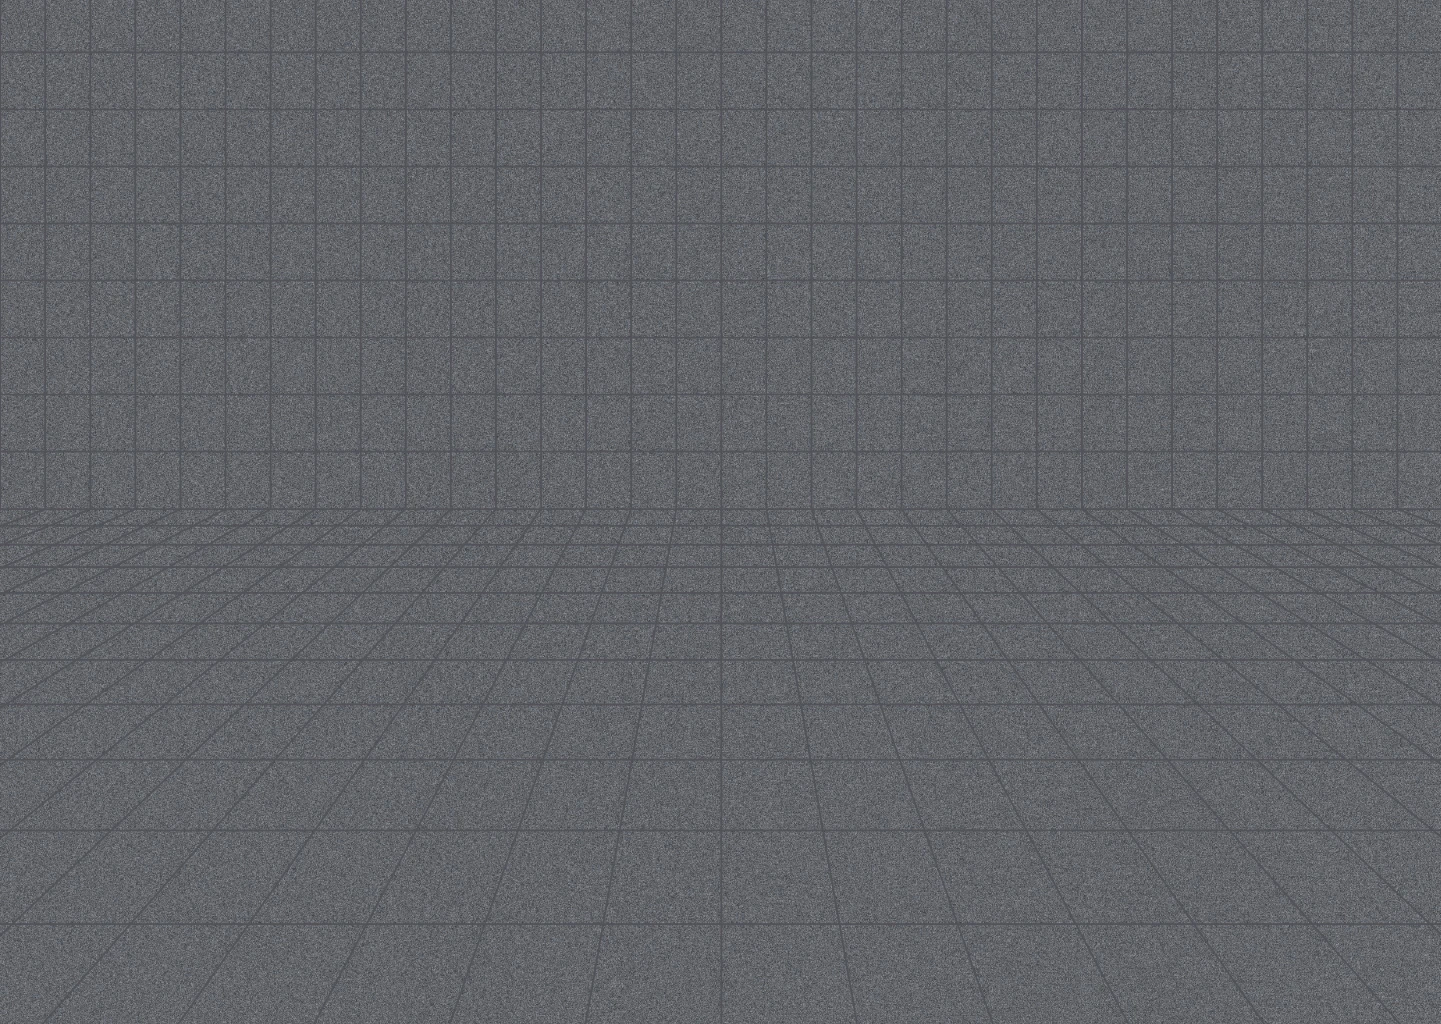
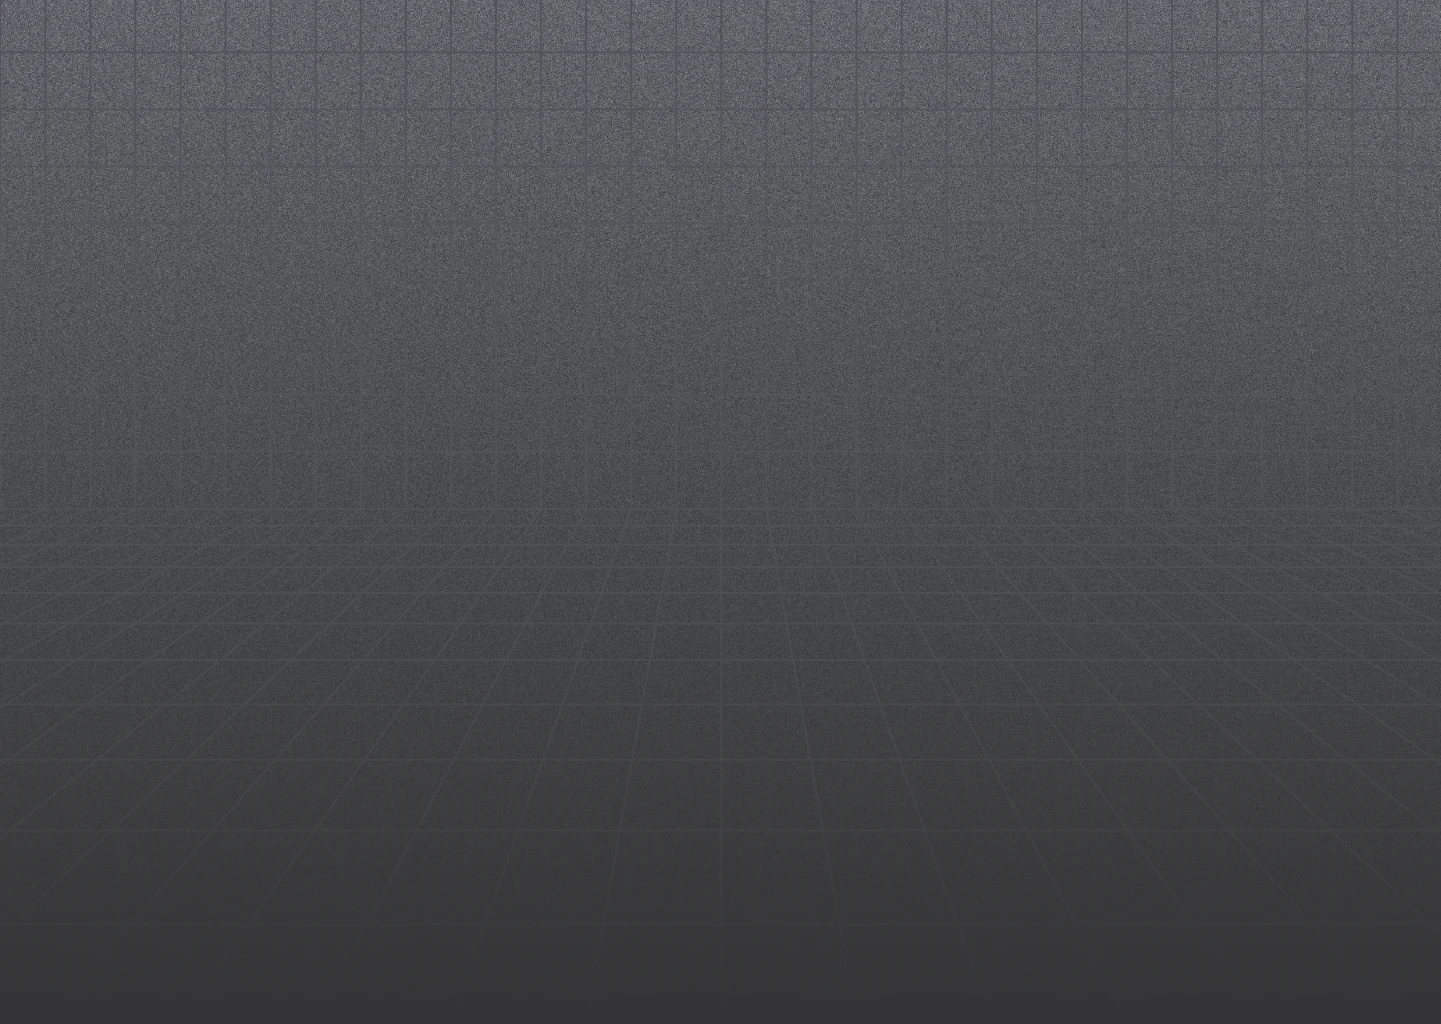
fix: footer text and bg image

diff --git a/apps/web/src/components/Footer/index.tsx b/apps/web/src/components/Footer/index.tsx
@@ -102,7 +102,7 @@ const Footer: FC<FooterProps> = ({ links, socials, ctaCopy, ctaLabel }) => {
 
       <div className="landscape:flex landscape:justify-between">
         <div className="ml-auto text-right mb-8 landscape:ml-0 landscape:mb-0 landscape:text-left">
-          <p className="mb-4">
+          <p className="mb-4 ml-auto landscape:ml-0w-71 landscape:w-96 text-sm-custom">
             {ctaCopy.map((line, inx) => (
               <span key={inx}>
                 {inx > 0 ? <br /> : null}
@@ -120,7 +120,7 @@ const Footer: FC<FooterProps> = ({ links, socials, ctaCopy, ctaLabel }) => {
             </Suspense>
           )}
         </div>
-        <p className="landscape:self-end">
+        <p className="self-end">
           <Link
             href="https://www.mozilla.org/privacy/websites/?utm_source=billionaireblastoff.firefox.com&utm_medium=referral&utm_campaign=footer"
             aria-label="Go to Privacy Policy page"

diff --git a/apps/web/src/app/layout.tsx b/apps/web/src/app/layout.tsx
@@ -143,7 +143,9 @@ const navigationData = {
       src: '/assets/images/social/youtube.svg',
     },
   ],
-  ctaCopy: ['Big Tech wants to own your orbit.', 'We say—go launch yourself!'],
+  ctaCopy: [
+    'This experience uses AI and prioritizes open-source models, guided by stimulus from paid artists and prompt engineers. Billionaires feed your data into AI, we use it to hand the power back to you.',
+  ],
   ctaLabel: 'Build a Billionaire',
 };
 
